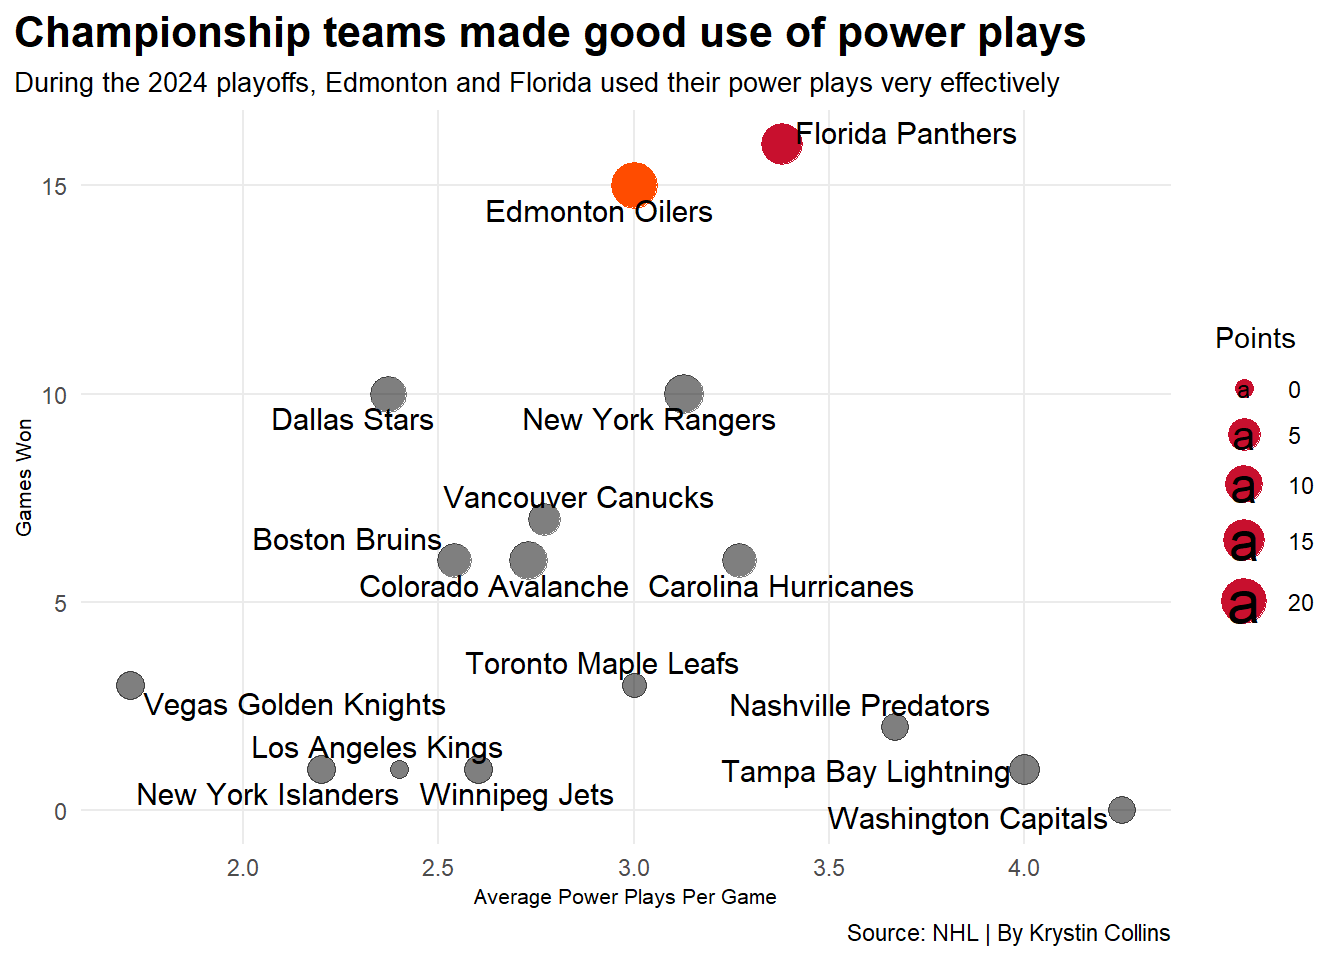
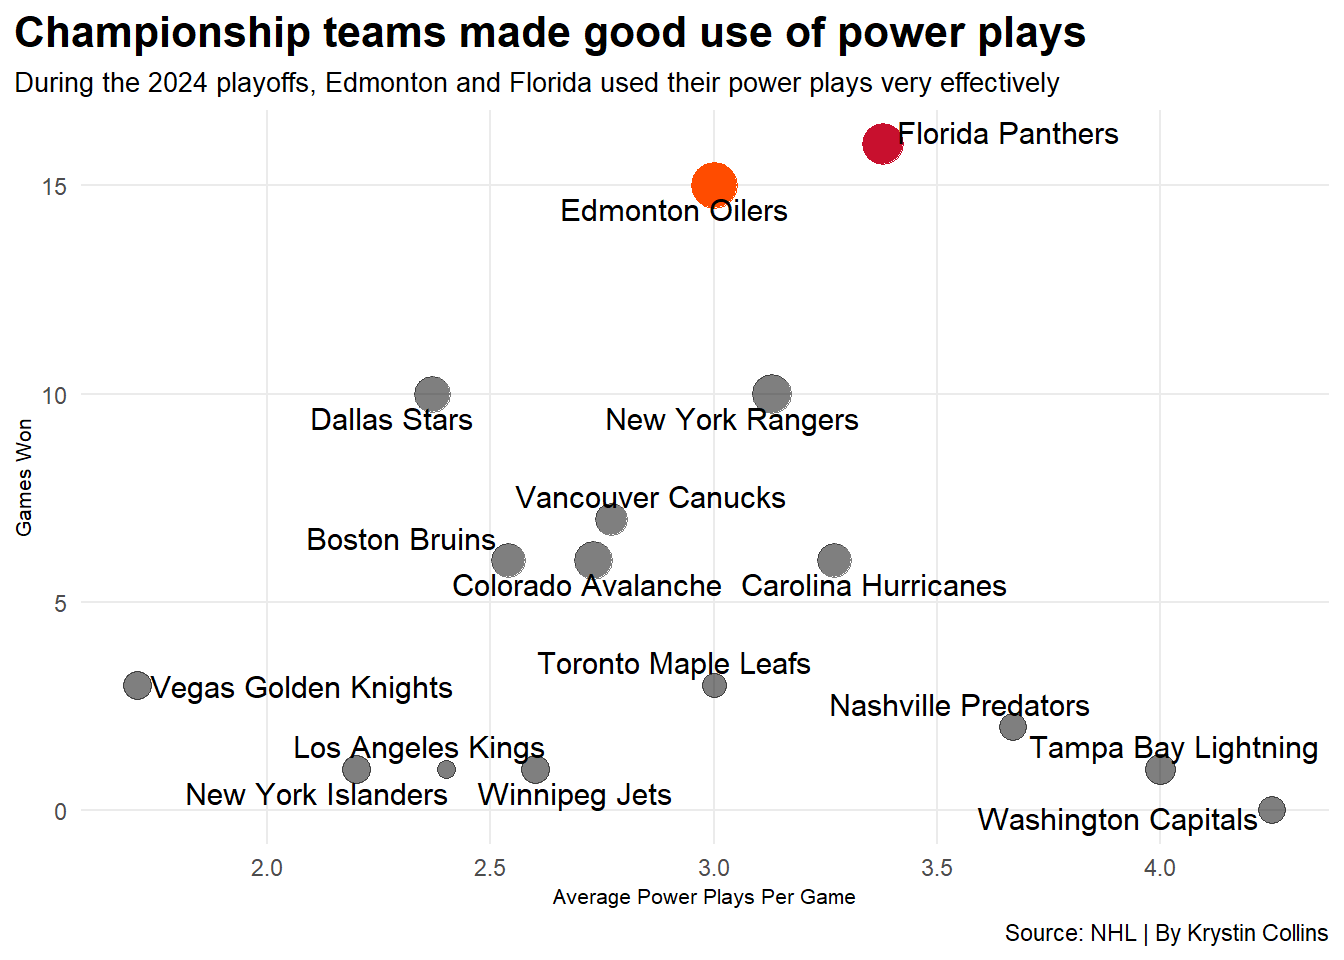
push

diff --git a/posts/nhl-playoff-power-plays/index.html b/posts/nhl-playoff-power-plays/index.html
@@ -261,8 +261,9 @@ pre > code.sourceCode > span > a:first-child::before { text-decoration: underlin
 <span id="cb1-60"><a href="#cb1-60" aria-hidden="true" tabindex="-1"></a>    <span class="at">axis.title =</span> <span class="fu">element_text</span>(<span class="at">size =</span> <span class="dv">8</span>), </span>
 <span id="cb1-61"><a href="#cb1-61" aria-hidden="true" tabindex="-1"></a>    <span class="at">plot.subtitle =</span> <span class="fu">element_text</span>(<span class="at">size =</span> <span class="dv">10</span>), </span>
 <span id="cb1-62"><a href="#cb1-62" aria-hidden="true" tabindex="-1"></a>    <span class="at">panel.grid.minor =</span> <span class="fu">element_blank</span>(),</span>
-<span id="cb1-63"><a href="#cb1-63" aria-hidden="true" tabindex="-1"></a>    <span class="at">plot.title.position =</span> <span class="st">"plot"</span></span>
-<span id="cb1-64"><a href="#cb1-64" aria-hidden="true" tabindex="-1"></a>  )</span></code><button title="Copy to Clipboard" class="code-copy-button"><i class="bi"></i></button></pre></div>
+<span id="cb1-63"><a href="#cb1-63" aria-hidden="true" tabindex="-1"></a>    <span class="at">plot.title.position =</span> <span class="st">"plot"</span>,</span>
+<span id="cb1-64"><a href="#cb1-64" aria-hidden="true" tabindex="-1"></a>    <span class="at">legend.position =</span> <span class="st">"none"</span></span>
+<span id="cb1-65"><a href="#cb1-65" aria-hidden="true" tabindex="-1"></a>  )</span></code><button title="Copy to Clipboard" class="code-copy-button"><i class="bi"></i></button></pre></div>
 </details>
 <div class="cell-output-display">
 <div>

diff --git a/index.html b/index.html
@@ -210,7 +210,7 @@ window.Quarto = {
 
 <div class="quarto-listing quarto-listing-container-default" id="listing-listing">
 <div class="list quarto-listing-default">
-<div class="quarto-post image-right" data-index="0" data-categories="aG9ja2V5" data-listing-date-sort="1733637600000" data-listing-file-modified-sort="1733435753596" data-listing-date-modified-sort="NaN" data-listing-reading-time-sort="4" data-listing-word-count-sort="720">
+<div class="quarto-post image-right" data-index="0" data-categories="aG9ja2V5" data-listing-date-sort="1733637600000" data-listing-file-modified-sort="1733440806495" data-listing-date-modified-sort="NaN" data-listing-reading-time-sort="4" data-listing-word-count-sort="726">
 <div class="thumbnail">
 <p><a href="./posts/nhl-playoff-power-plays/index.html" class="no-external"></a></p><a href="./posts/nhl-playoff-power-plays/index.html" class="no-external">
 <p class="card-img-top"><img src="posts\nhl-playoff-power-plays\index_files\figure-html\unnamed-chunk-1-1.png"  class="thumbnail-image card-img"/></p>
